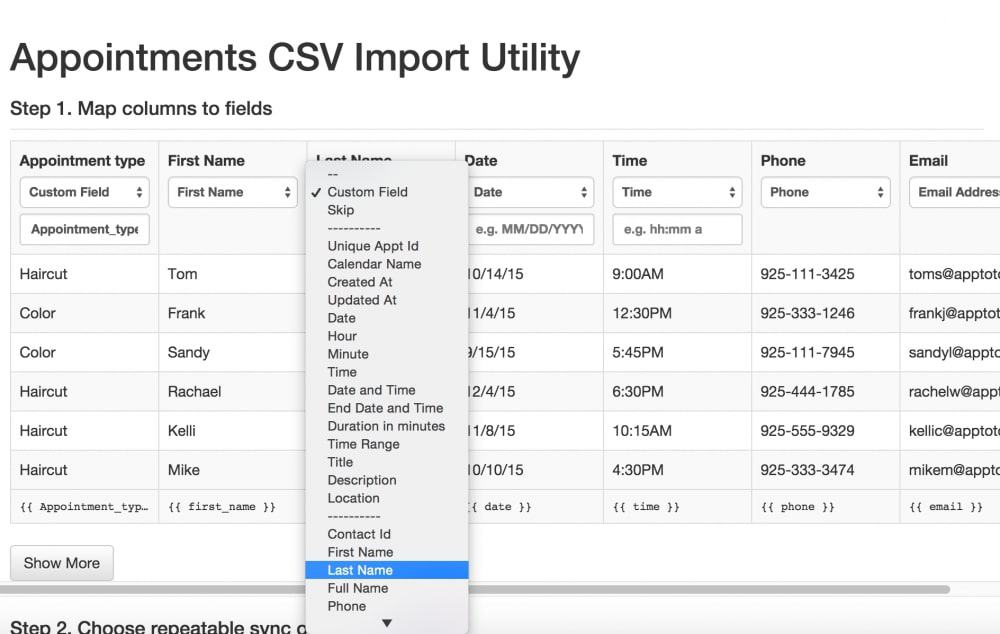
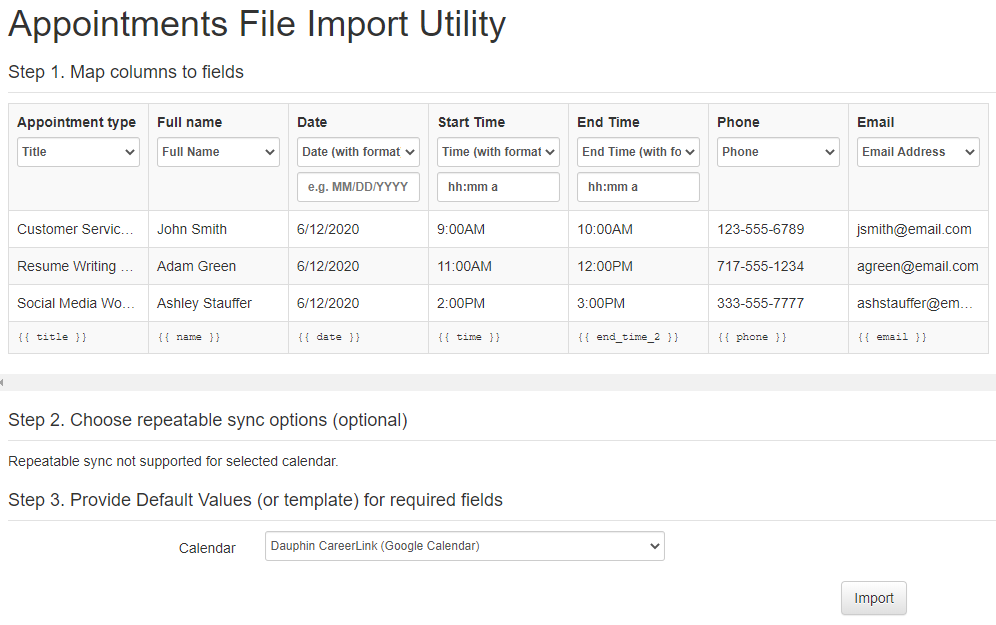
Styling fixes; Appointments content

diff --git a/_sass/overrides.scss b/_sass/overrides.scss
@@ -1,7 +1,17 @@
+/* Overrides - overwrites styles in the just-the-docs remote theme */
+
+/* Divider style */
 hr.divider {
   border-top: 3px solid #bbb;
 }
 
+/* Images styling */
+img {
+     max-width: 100%;
+     height: auto;
+}
+
+/* Page layout size adjustments */
 .side-bar {
   z-index: 100;
   display: flex;

diff --git a/appointments.md b/appointments.md
@@ -74,11 +74,13 @@ You can bulk import appointments from a CSV or XML file. CSV (comma-separated va
 
 ### Suggested Layout
 
-| Appointment type | Full Name | Date | Time | Phone | Email |
-|------------------|-----------|------|------|-------|-------|
-| Customer Service Bootcamp | John Smith | 6/12/2020 | 9:00AM | 123-555-6789 | jsmith@email.com |
-| Resume Writing Workshop | Adam Green | 6/12/2020 | 11:00AM | 717-555-1234 | agreen@email.com |
-| Social Media Workshop | Ashley Stauffer | 6/12/2020 | 2:00PM | 333-555-7777 | ashstauffer@email.com |
+| Appointment type | Full Name | Date | Start Time | End Time | Phone | Email |
+|------------------|-----------|------|------------|----------|-------|-------|
+| Customer Service Bootcamp | John Smith | 6/12/2020 | 9:00AM | 10:00AM | 123-555-6789 | jsmith@email.com |
+| Resume Writing Workshop | Adam Green | 6/12/2020 | 11:00AM | 12:00PM | 717-555-1234 | agreen@email.com |
+| Social Media Workshop | Ashley Stauffer | 6/12/2020 | 2:00PM | 3:00PM | 333-555-7777 | ashstauffer@email.com |
+
+<a href="assets/apptoto/sampleCSV.csv">**Download the sample CSV file.**</a>
 
 ### Uploading Procedure
 1. Click on the Import button at the top-right of the page.
@@ -93,9 +95,21 @@ You can bulk import appointments from a CSV or XML file. CSV (comma-separated va
 
 <a class="image" href="assets/apptoto/importCSV.jpg"><img src="assets/apptoto/importCSV.jpg" /></a>
 
-1. The final step in the uploading process is to set **repeatable sync** options.
-     1. It is recommended that you use the following options:
-          1. **Avoid duplicating appointments: ON**
-          1. **Update existing appointments if found: ON**
-          1. **Delete appointments if they were removed: OFF**
-1. You will need to provide default values for required fields. These are values that are stored in these fields when they are left blank.
+1. (Optional) You may be prompted to set "repeatable sync options." If these appear, it is recommended that you use the following options:
+     1. **Avoid duplicating appointments: ON**
+     1. **Update existing appointments if found: ON**
+     1. **Delete appointments if they were removed: OFF**
+
+1. Under the **Step 3. Provide Default Values (or template) for required fields**, make sure you have the correct calendar selected. The selected calendar should correspond with the location of the appointments.
+1. (Optional) You may be prompted to create unique appointment identifiers for your import. This happens when the CSV contains insufficient information for Apptoto to index it automatically.
+     1. Take a look at the table under the **Step 1. Map columns to fields** heading. The bottom row shows the field names of each column.
+     <a class="image" href="assets/apptoto/tableFieldNames.png"><img src="assets/apptoto/tableFieldNames.png" /></a>
+     1. You must enter a combination of these fields in the Unique Appt Id field under Step 3 of the importing process. See below for a suggested format.
+
+`{{ title }} - {{ name }} - {{ date }} - {{ time }}`
+
+1. Click **Import** to begin importing your appointment data!
+1. You will see the following screen if the import has completed successfully. If the upload does not succeed, you will see an error message. Read the message to determine the issue, fix it, and then restart the upload process to try again. Alternatively, if only some rows have issues, you can choose to skip uploading just those rows.
+1. Should you need to, you have the option to undo a successful import by clicking **Undo Import**.
+
+<a class="image" href="assets/apptoto/importComplete.png"><img src="assets/apptoto/importComplete.png" /></a>
